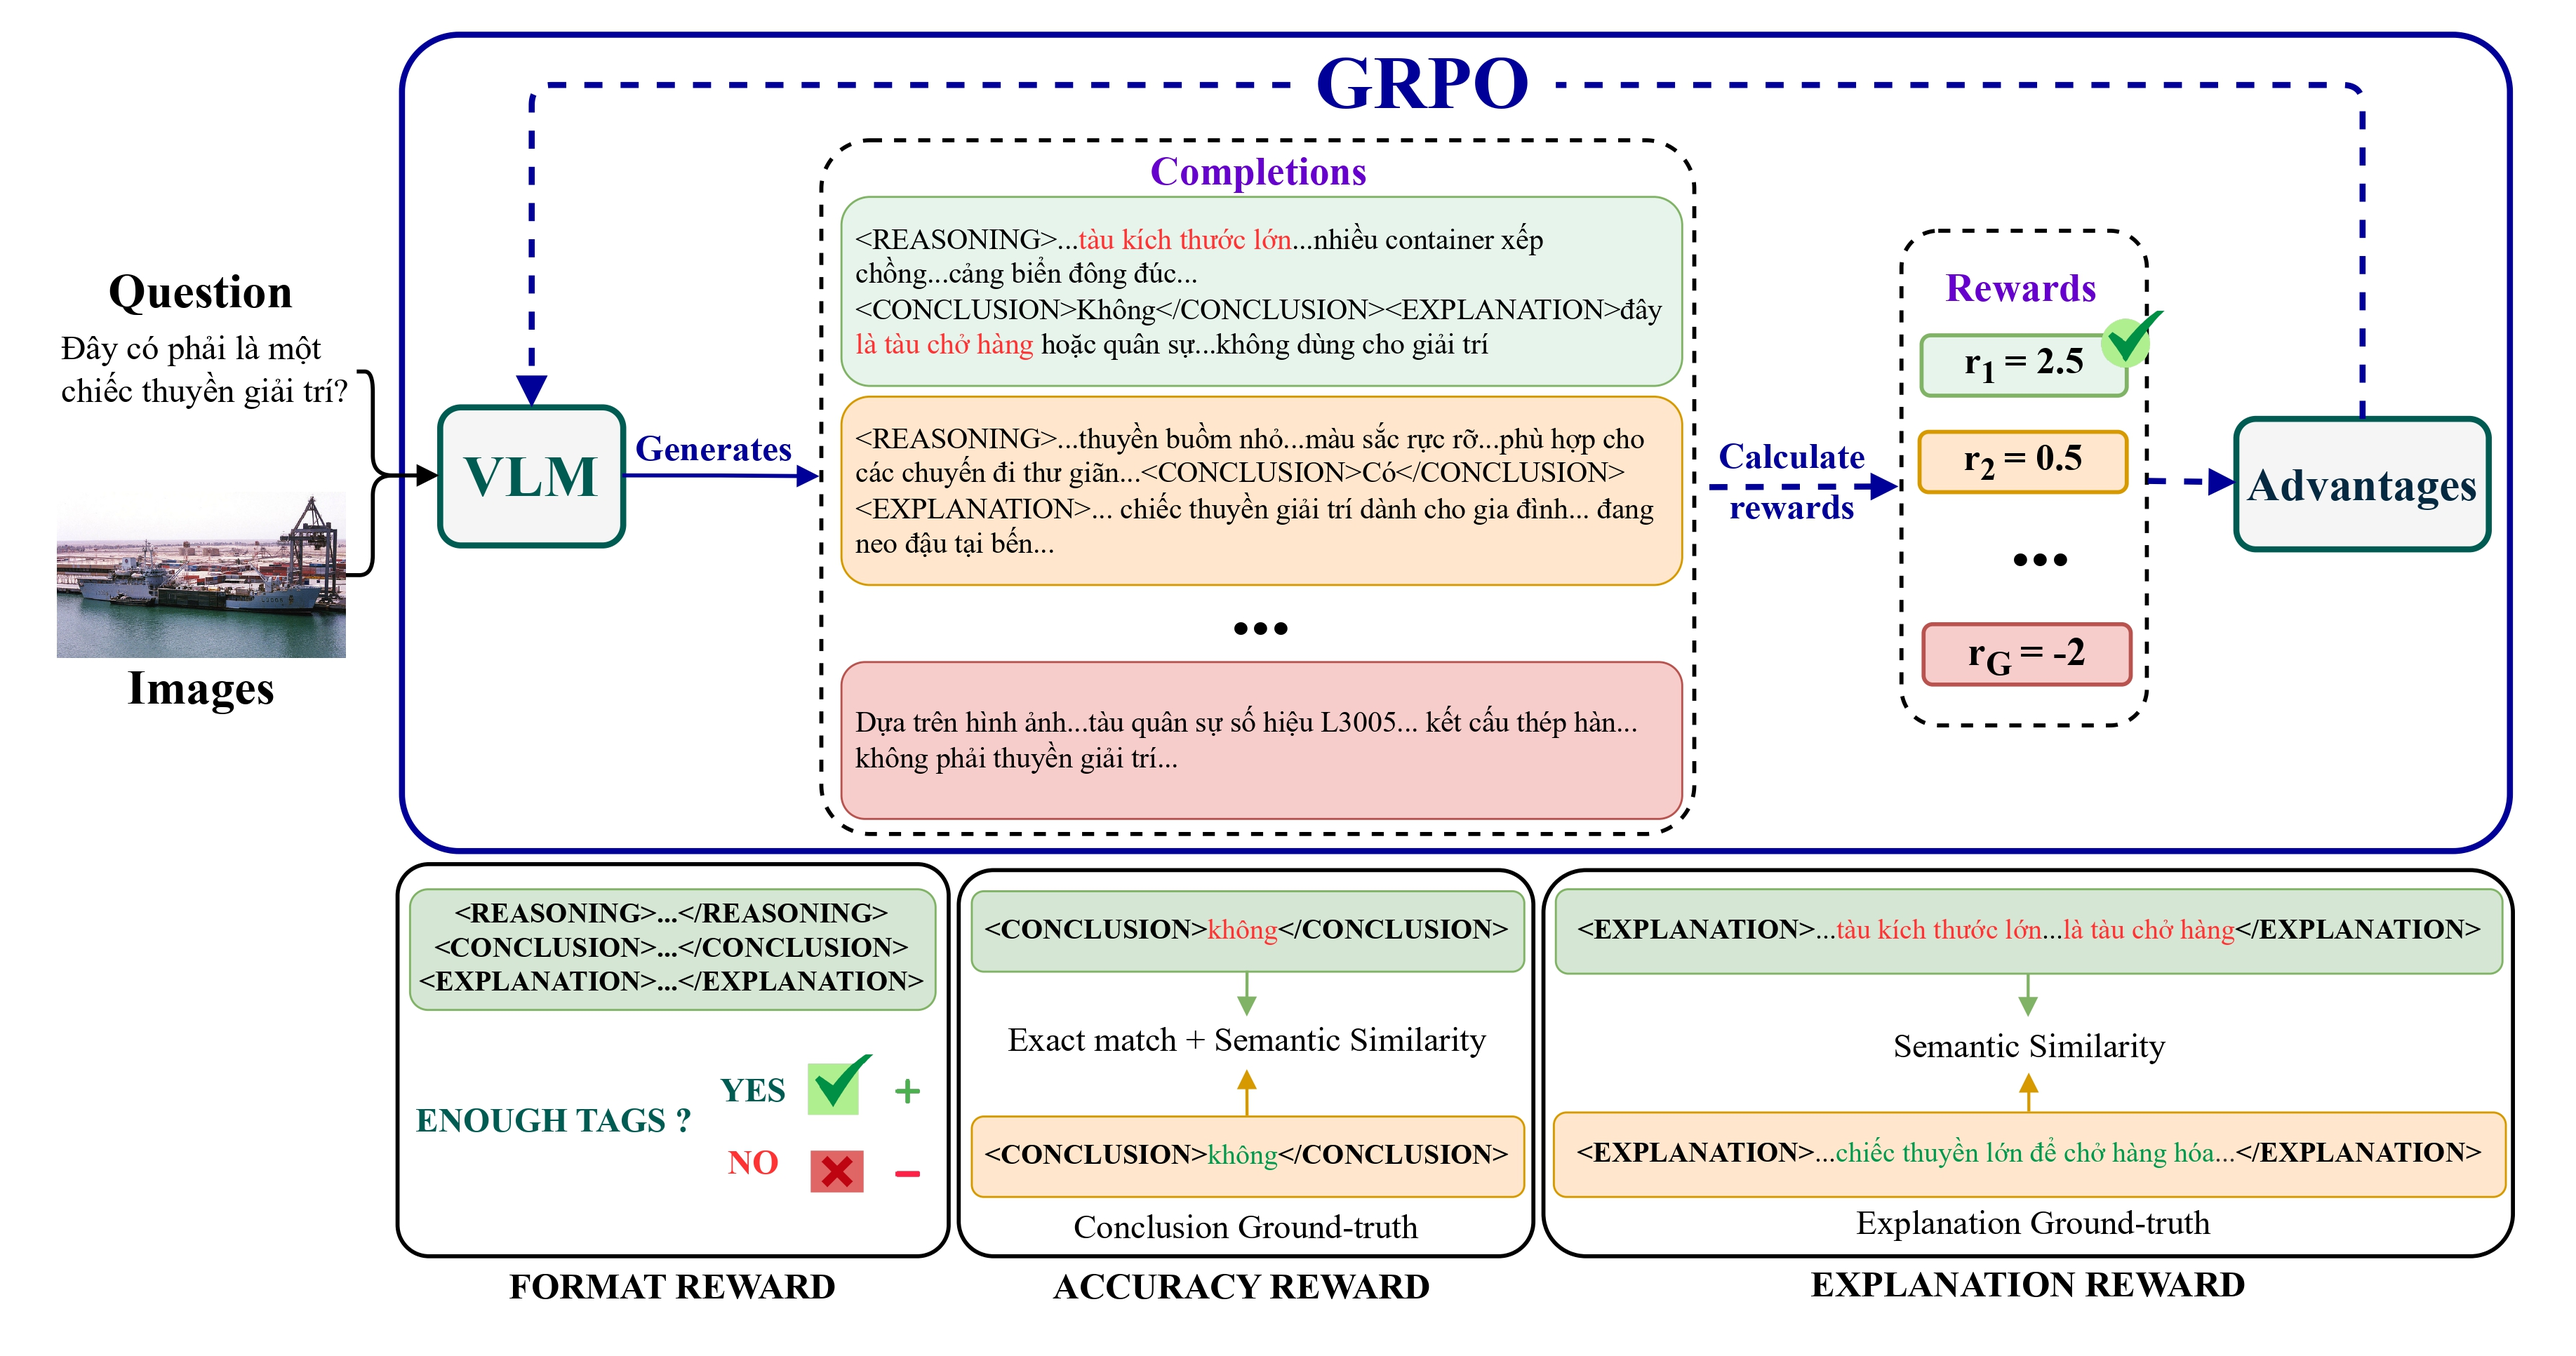
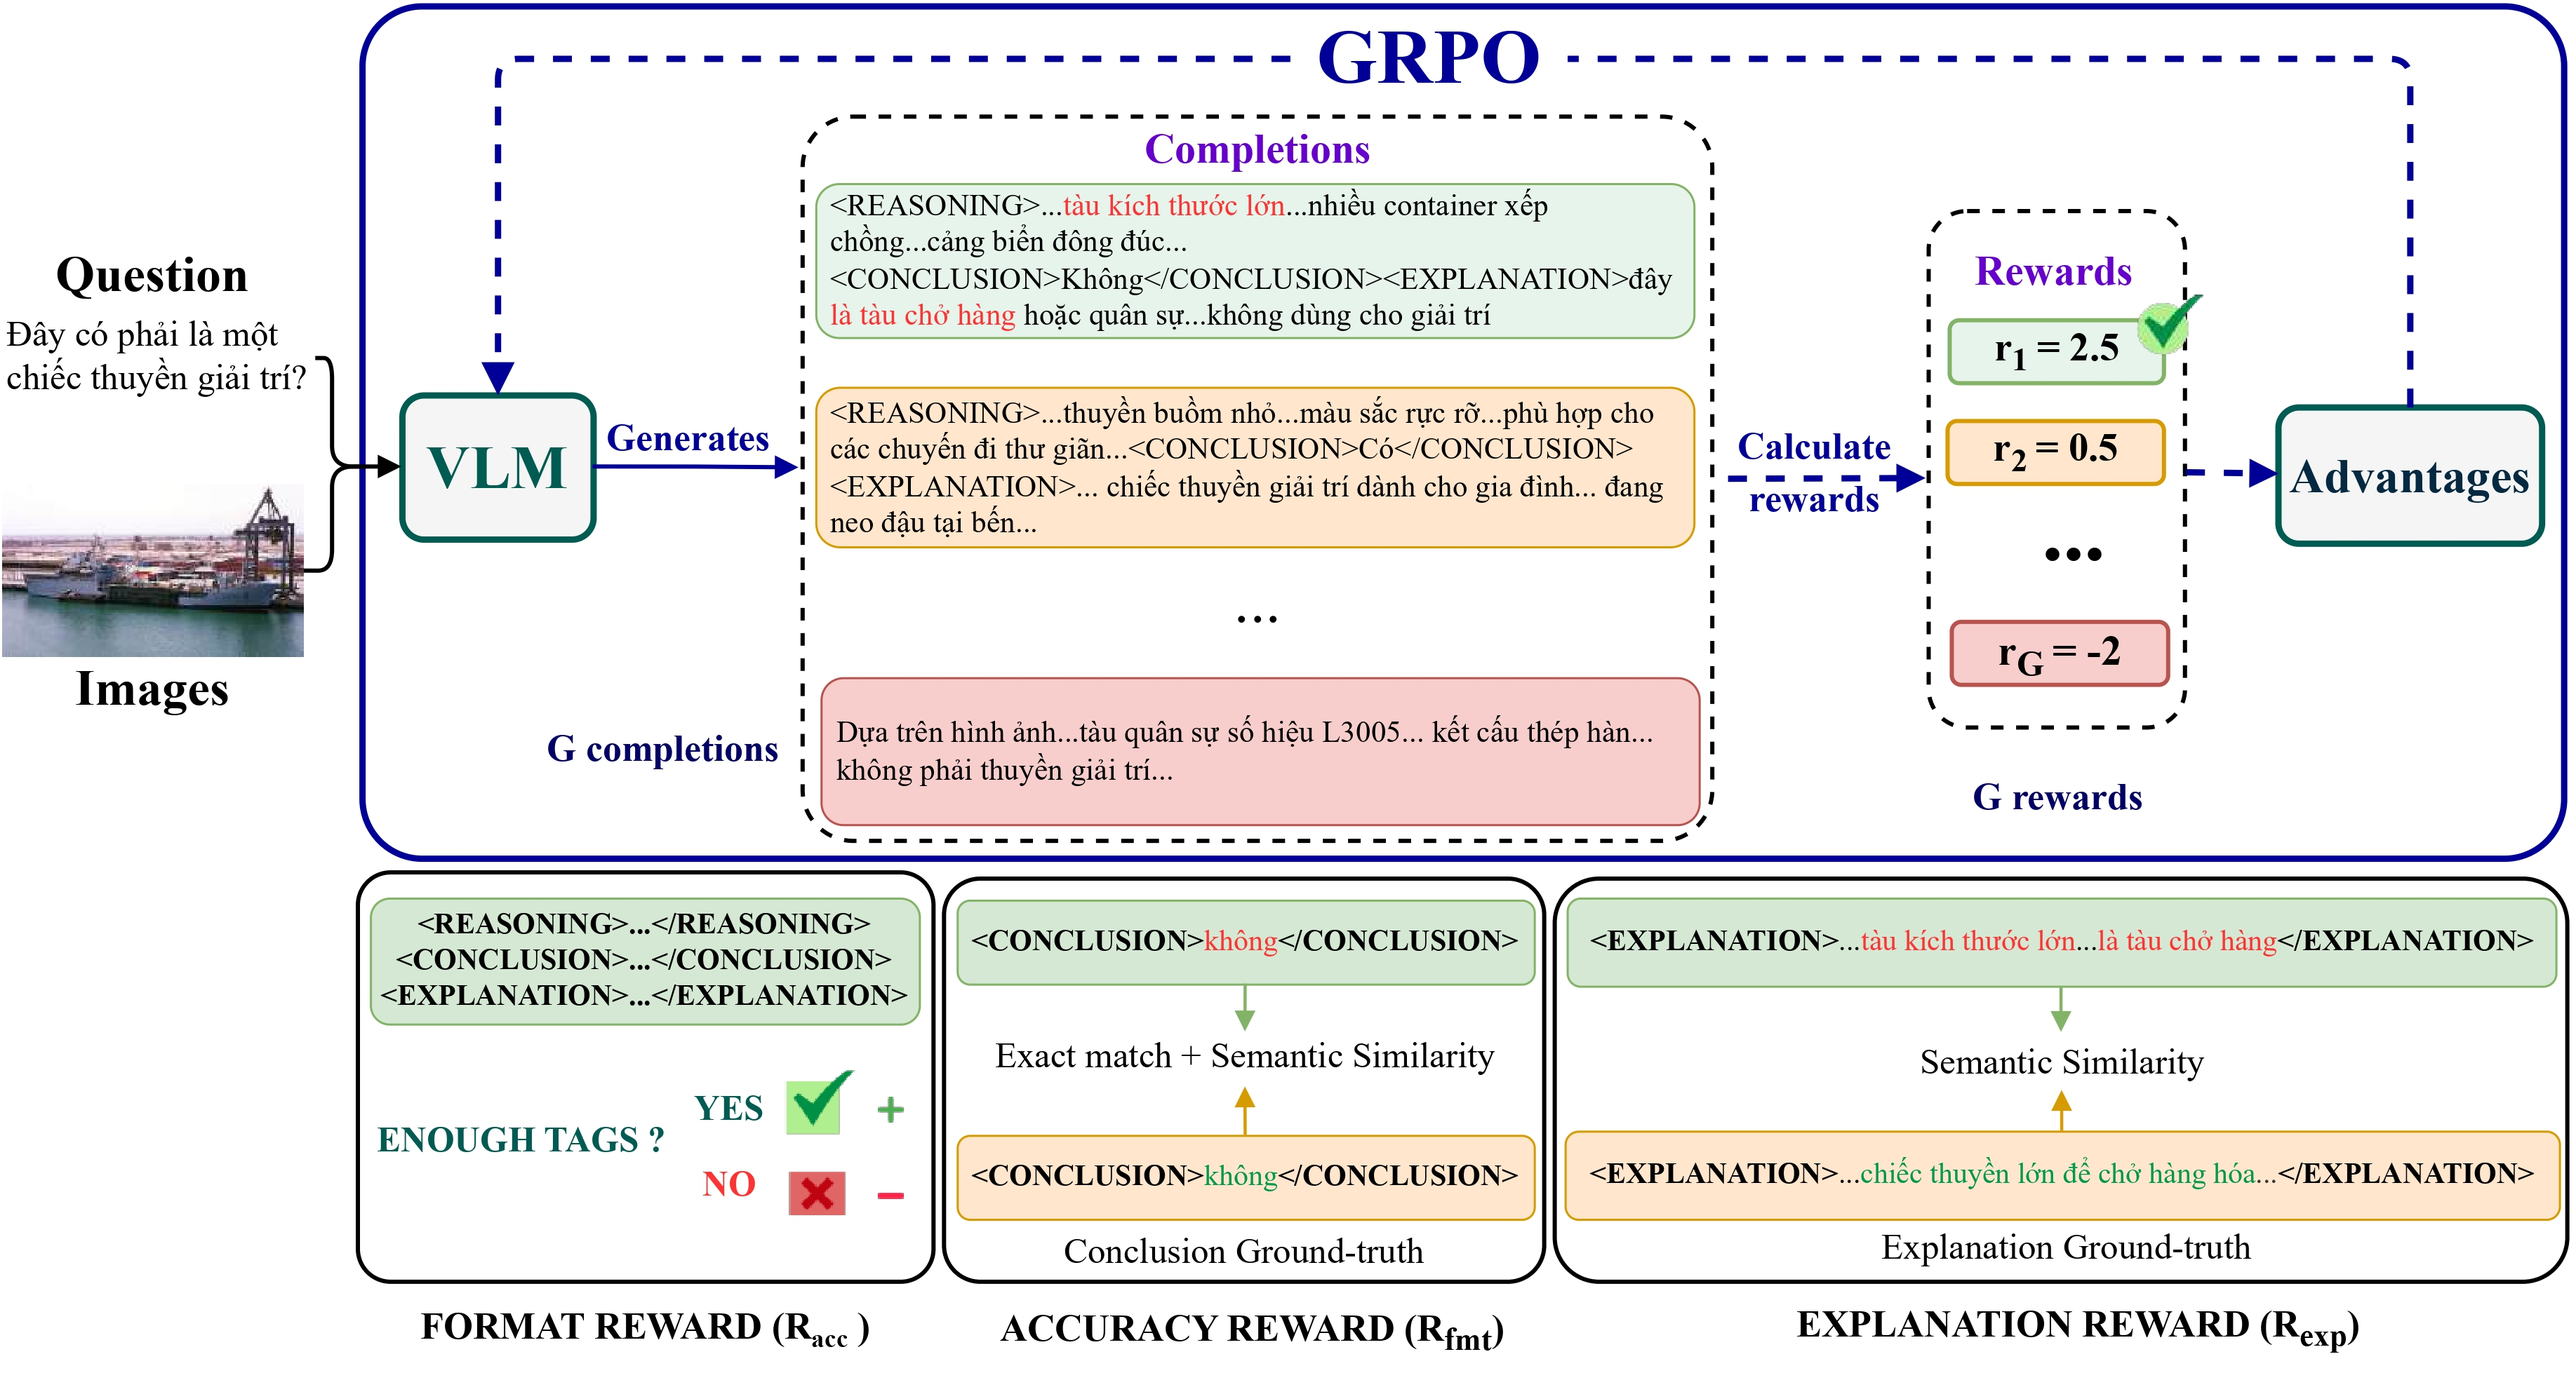
add clipmetric

Changed region(s): [[0.0, 0.0, 1.0, 0.9933], [0.7453, 0.4035, 0.8695, 0.5898], [0.1553, 0.9002, 0.3416, 0.9933]]

diff --git a/src/evaluation/calculate_scores.py b/src/evaluation/calculate_scores.py
@@ -22,15 +22,17 @@ from .core import (
     validate_format_consistency,
     normalize_explanation,
     ensure_list,
+    SharedSyntheticAnswerGenerator,
+    SharedCLIPScoreModel,
     SharedBERTScoreModel,
     SharedSMILEModel,
-    SharedSyntheticAnswerGenerator,
 )
 
 from .metrics import (
     compute_accuracy,
     get_nlg_scores,
     compute_smile_scores,
+    compute_clip_scores,
 )
 
 
@@ -65,12 +67,15 @@ def add_scores_to_row(row: Dict, scores: Dict, prefix: str = "") -> None:
 # FILE EVALUATION
 # ============================================================================
 
-def evaluate_file(json_path: str, device: str = "cuda") -> Dict:
+def evaluate_file(json_path: str, device: str = "cuda", image_dir: str = None) -> Dict:
     """
     Evaluate a single inference output file.
     
     Auto-detects format and computes applicable metrics.
     """
+    if image_dir is None:
+        image_dir = "/mnt/VLAI_data/COCO_Images/val2014"
+        
     print(f"Loading: {json_path}")
     with open(json_path, "r", encoding="utf-8") as f:
         data = json.load(f)
@@ -91,14 +96,22 @@ def evaluate_file(json_path: str, device: str = "cuda") -> Dict:
     all_questions = []
     all_gt_answers = []
     all_pred_answers = []
+    all_image_paths = []
     by_type = {}
     
     for item in data:
         gt_expls = [normalize_explanation(e) for e in ensure_list(item.get("explanation", []))]
         all_gt_expls.append(gt_expls)
         all_questions.append(item.get("question", ""))
-        all_gt_answers.append(item.get("answer", ""))
         all_pred_answers.append(item.get("predict", ""))
+        
+        # Resolve image path
+        img_name = item.get("image_name", "")
+        if not img_name and "image_id" in item:
+            img_name = f"COCO_val2014_{int(item['image_id']):012d}.jpg"
+        
+        img_path = os.path.join(image_dir, img_name)
+        all_image_paths.append(img_path)
         
         ans_type = item.get("answer_type", "other")
         if ans_type not in by_type:
@@ -108,12 +121,14 @@ def evaluate_file(json_path: str, device: str = "cuda") -> Dict:
                 "questions": [],
                 "gt_answers": [],
                 "pred_answers": [],
+                "image_paths": [],
             }
         
         by_type[ans_type]["gt_expls"].append(gt_expls)
         by_type[ans_type]["questions"].append(item.get("question", ""))
         by_type[ans_type]["gt_answers"].append(item.get("answer", ""))
         by_type[ans_type]["pred_answers"].append(item.get("predict", ""))
+        by_type[ans_type]["image_paths"].append(img_path)
     
     # Initialize results
     results = {
@@ -131,6 +146,13 @@ def evaluate_file(json_path: str, device: str = "cuda") -> Dict:
         all_explanations = [get_explanation_field(item, format_info) for item in data]
         
         explanation_scores = get_nlg_scores(all_gt_expls, all_explanations, device, model_type='phobert')
+        
+        # Compute CLIPScore
+        print("Computing CLIP scores...")
+        clip_scores = compute_clip_scores(all_image_paths, all_explanations, device=device)
+        if clip_scores:
+            explanation_scores["CLIPScore"] = sum(clip_scores) / len(clip_scores)
+            
         results['explanation_scores'] = explanation_scores
         
         # Collect by type
@@ -184,6 +206,12 @@ def evaluate_file(json_path: str, device: str = "cuda") -> Dict:
                 device,
                 model_type='phobert'
             )
+            
+            # CLIPScore by type
+            type_clip = compute_clip_scores(type_data['image_paths'], type_data['pred_fields'], device=device)
+            if type_clip:
+                nlg_scores_type["CLIPScore"] = sum(type_clip) / len(type_clip)
+                
             type_results['explanation_scores'] = nlg_scores_type
         
         # Answer scores
@@ -207,7 +235,6 @@ def evaluate_file(json_path: str, device: str = "cuda") -> Dict:
         results['by_answer_type'][ans_type] = type_results
     
     return results
-
 
 # ============================================================================
 # RESULTS FORMATTING
@@ -261,6 +288,8 @@ def main():
                        help="Device for model computation")
     parser.add_argument("--cuda-device", type=str, default="0",
                        help="CUDA_VISIBLE_DEVICES value")
+    parser.add_argument("--image-dir", type=str, default="/mnt/VLAI_data/COCO_Images/val2014",
+                       help="Directory containing COCO images")
     
     args = parser.parse_args()
     os.environ["CUDA_VISIBLE_DEVICES"] = args.cuda_device
@@ -292,6 +321,7 @@ def main():
     SharedBERTScoreModel.get_scorer(model_type='phobert', device='cpu')
     SharedSMILEModel.get_instance(model_type='phobert')
     SharedSyntheticAnswerGenerator.initialize(device=args.device)
+    SharedCLIPScoreModel.get_instance(device=args.device)
     print("Models ready\n")
     
     # Evaluate files
@@ -306,7 +336,7 @@ def main():
         print(f"{'─'*80}")
         
         try:
-            results = evaluate_file(file_path, device=args.device)
+            results = evaluate_file(file_path, device=args.device, image_dir=args.image_dir)
             rows = format_results_to_dataframe(results, model_name)
             all_rows.extend(rows)
             print(f"Done - Accuracy: {results['accuracy']:.2f}%")

diff --git a/src/evaluation/metrics/clip_metrics.py b/src/evaluation/metrics/clip_metrics.py
@@ -1,0 +1,88 @@
+import torch
+import numpy as np
+from PIL import Image
+from tqdm import tqdm
+from ..core.shared_models import SharedCLIPScoreModel
+from ..core.text_preprocessing import preprocess_for_nlg_metrics
+
+def _to_clip_image_tensor(image_paths: list[str]) -> torch.Tensor:
+    """
+    Load images from paths and convert to a single tensor [N, 3, 224, 224] uint8.
+    Note: Using 224x224 as it's the default for most CLIP models.
+    """
+    tensors = []
+    for path in image_paths:
+        try:
+            img = Image.open(path).convert("RGB")
+            img = img.resize((224, 224))
+            tensors.append(torch.from_numpy(np.array(img)).permute(2, 0, 1))
+        except Exception as e:
+            print(f"Warning: Failed to load image {path}: {e}")
+            # Fallback to black image if one fails to keep batch alignment
+            tensors.append(torch.zeros((3, 224, 224), dtype=torch.uint8))
+            
+    return torch.stack(tensors)
+
+@torch.inference_mode()
+def compute_clip_scores(
+    image_paths: list[str],
+    texts: list[str],
+    device: str = "cuda",
+    model_name_or_path: str = "openai/clip-vit-base-patch16",
+    batch_size: int = 8,  # Reduced batch size for CLIP safety
+    max_len: int = 150,
+) -> list[float]:
+    """
+    Compute CLIPScore(image, text) for each sample.
+    
+    Args:
+        image_paths: List of local paths to images
+        texts: List of strings (explanations/answers)
+        device: Computation device
+        model_name_or_path: CLIP model identifier
+        batch_size: Batch size for computation
+        max_len: Maximum text length for preprocessing
+        
+    Returns:
+        List[float] scores (scaled 0-100), length == len(texts)
+    """
+    if not texts or not image_paths:
+        return []
+
+    if len(image_paths) != len(texts):
+        raise ValueError(f"Number of images ({len(image_paths)}) != number of texts ({len(texts)})")
+
+    # Preprocess texts
+    processed_texts = [preprocess_for_nlg_metrics(t, max_len=max_len) for t in texts]
+
+    # Get singleton model
+    metric = SharedCLIPScoreModel.get_instance(model_name_or_path=model_name_or_path, device=device)
+
+    scores = [0.0] * len(texts)
+
+    # Process in batches
+    for start in range(0, len(texts), batch_size):
+        end = min(start + batch_size, len(texts))
+        batch_paths = image_paths[start:end]
+        batch_texts = processed_texts[start:end]
+
+        try:
+            batch_imgs = _to_clip_image_tensor(batch_paths).to(device)
+            
+            # CLIPScore in torchmetrics can take batch of images and texts
+            # Returns a scalar tensor which is the mean by default.
+            # To get individual scores, we can call it per sample or check if it supports batch return.
+            # Most efficient is usually batch processing, but torchmetrics CLIPScore returns mean of batch.
+            # We'll compute individual scores to be safe for per-sample logging.
+            
+            for i, (img, txt) in enumerate(zip(batch_imgs, batch_texts), start=start):
+                # img is [3, 224, 224], CLIPScore expects [1, 3, 224, 224] for single sample
+                s = metric(img.unsqueeze(0), [txt])
+                scores[i] = float(s.detach().cpu().item())
+                
+        except Exception as e:
+            print(f"Warning: CLIPScore batch failed at {start}-{end}: {e}")
+            if torch.cuda.is_available():
+                torch.cuda.empty_cache()
+
+    return scores

diff --git a/src/inference/internvl_based/zero_shot.py b/src/inference/internvl_based/zero_shot.py
@@ -33,11 +33,11 @@ def infer(model: InternVLModel, question: str, image_path: str) -> dict:
 def main():
     parser = argparse.ArgumentParser(description="Zero-shot Inference (Base Model)")
     parser.add_argument("--model", required=True, help="Base model path or HF ID")
-    parser.add_argument("--data_path", default="/mnt/VLAI_data/ViVQA-X/ViVQA-X_test.json")
+    parser.add_argument("--data_path", default="data/raw/vivqa-x/annotations/ViVQA-X_test.json")
     parser.add_argument("--image_folder", default="/mnt/VLAI_data/COCO_Images/val2014")
-    parser.add_argument("--output_dir", default="results/inference/zeroshot")
+    parser.add_argument("--output_dir", default="outputs/inference/zeroshot")
     parser.add_argument("--output_name", default=None)
-    parser.add_argument("--limit", type=int, default=None)
+    parser.add_argument("--limit", type=int, default=None, help="Limit number of samples. 0 or None means all.")
     parser.add_argument("--device", default="cuda")
     
     args = parser.parse_args()
@@ -46,15 +46,13 @@ def main():
     print("Zero-shot Inference (Base Model - GRPO Prompt)")
     print("=" * 80)
     
-    model = InternVLModel()
-    model.model_path = args.model
+    model = InternVLModel(model_path=args.model)
     
     with open(args.data_path, "r") as f:
         data = json.load(f)
     data = list(data.values()) if isinstance(data, dict) else data
-    if args.limit:
+    if args.limit and args.limit > 0:
         data = data[:args.limit]
-    
     output_dir = Path(args.output_dir)
     output_dir.mkdir(parents=True, exist_ok=True)
     output_file = output_dir / f"{args.output_name or Path(args.model).name}.json"

diff --git a/src/evaluation/core/shared_models.py b/src/evaluation/core/shared_models.py
@@ -229,10 +229,37 @@ class SharedSyntheticAnswerGenerator:
         return synthetic_answers
 
 
+# ============================================================================
+# SHARED CLIPSCORE MODEL
+# ============================================================================
+
+class SharedCLIPScoreModel:
+    """
+    Singleton for CLIPScore model from torchmetrics.
+    """
+    _instances = {}
+
+    @classmethod
+    def get_instance(cls, model_name_or_path: str = "openai/clip-vit-base-patch16", 
+                     device: str = "cuda") -> 'CLIPScore':
+        from torchmetrics.multimodal import CLIPScore
+        
+        key = (model_name_or_path, device)
+        if key in cls._instances:
+            return cls._instances[key]
+
+        metric = CLIPScore(model_name_or_path=model_name_or_path)
+        metric = metric.to(device)
+        metric.eval()
+        cls._instances[key] = metric
+        return metric
+
+
 __all__ = [
     "SharedBERTScoreModel",
     "SharedSMILEModel", 
     "SharedSyntheticAnswerGenerator",
+    "SharedCLIPScoreModel",
 ]
 
 

diff --git a/src/evaluation/metrics/__init__.py b/src/evaluation/metrics/__init__.py
@@ -15,6 +15,9 @@ from .nlg_metrics import (
 )
 
 
+from .clip_metrics import compute_clip_scores
+
+
 __all__ = [
     # VQA accuracy
     "check_accuracy",
@@ -25,4 +28,6 @@ __all__ = [
     "get_nlg_scores",
     # SMILE metrics
     "compute_smile_scores",
+    # CLIP metrics
+    "compute_clip_scores",
 ]
